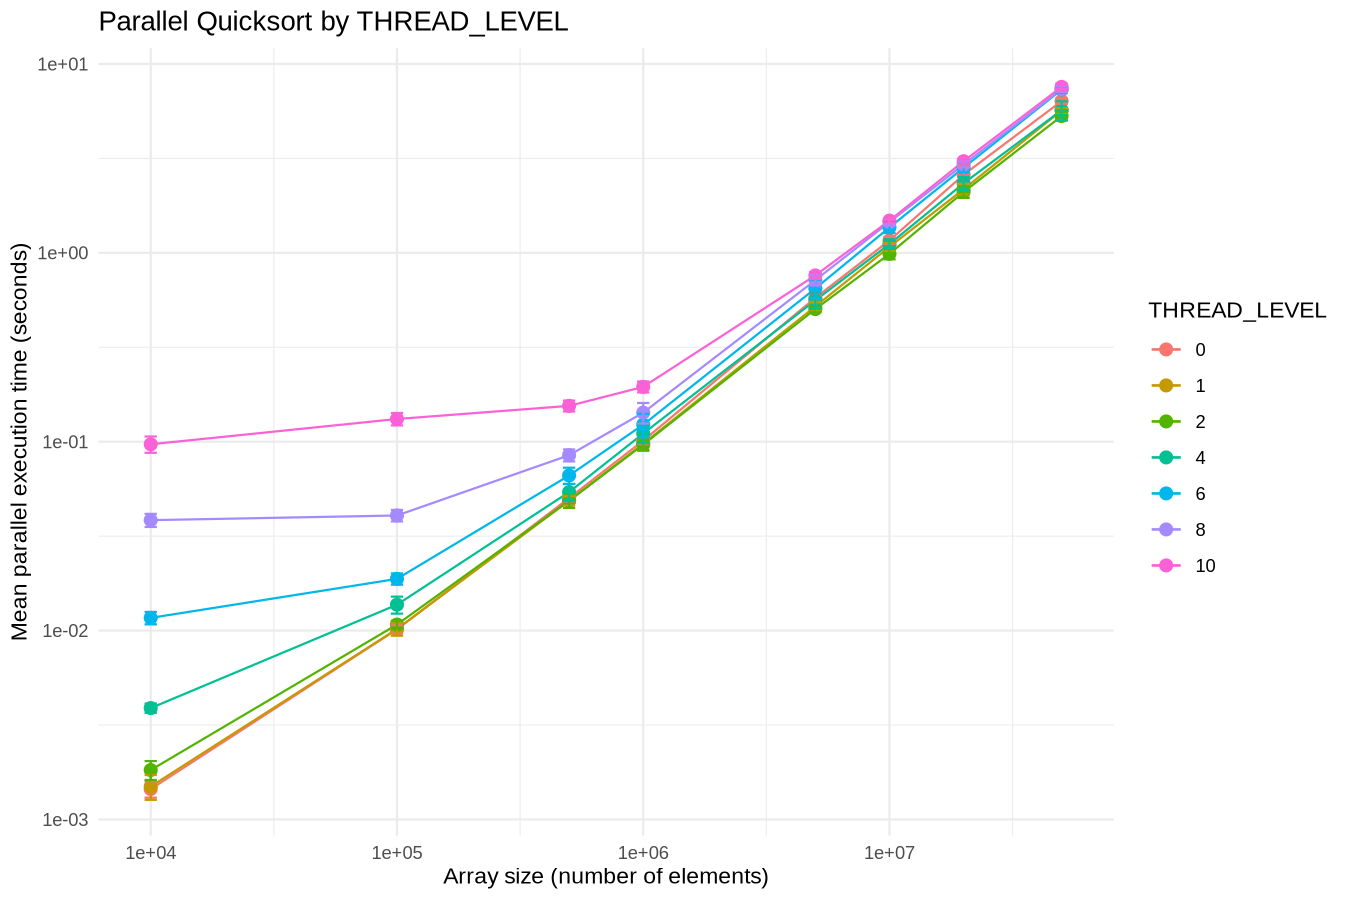
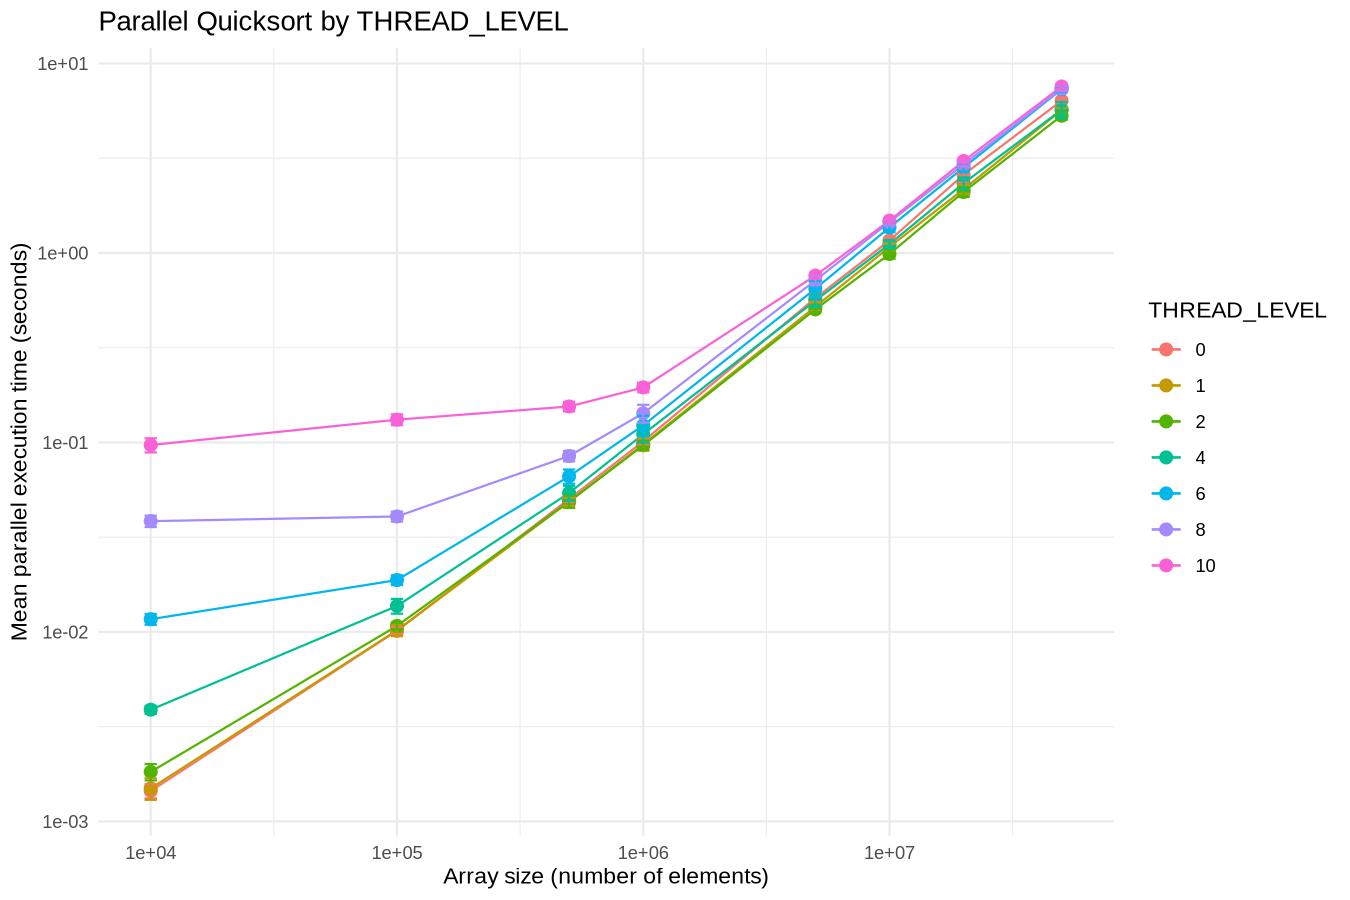
maaj

diff --git a/week3/M2R-ParallelQuicksort/README.md b/week3/M2R-ParallelQuicksort/README.md
@@ -11,6 +11,30 @@ Pour le tri parallèle, plusieurs niveaux de récursion ont été testés :
 ```text
 THREAD_LEVEL = 0, 1, 2, 4, 6, 8, 10
 ```
+### Démarche expérimentale
+
+Pour chaque taille de tableau et chaque `THREAD_LEVEL`, le benchmark est exécuté plusieurs fois. Les temps obtenus sont ensuite regroupés par configuration afin de calculer la moyenne et l'écart-type.
+
+À partir de ces répétitions, un intervalle de confiance à 95 % est calculé avec :
+
+```text
+IC 95 % = moyenne ± 1,96 × écart-type / √n
+```
+où `n` correspond au nombre de répétitions.
+
+Le coefficient 1,96 correspond au niveau de confiance de 95 %. n correspond au nombre de répétitions. ( P (-1,96 < Z < 1,96) )
+
+Details de calcul : On veut un intervalle central de 95 %
+
+soit : P (-z < Z < +z )  = 0,95 implique qu'il reste : P( Z < -z ) + P( Z > z ) = 0,05
+        1-0,95 = 0,05 => 0,05/2 = 0,025 ( car par symétrie P( Z < -z ) = P( Z > z ) )
+
+On cherche z tel que : P(Z < -z) = 0,025
+Par symétrie de la loi normale : P(Z > z) = 0,025
+Donc : P(Z < z) = 1 - 0,025 = 0,975
+Avec la table de la loi normale, on trouve : z = fct_de_repartition(0,975) ≈ 1,96
+
+Le speedup est ensuite calculé entre le temps séquentiel et le temps parallèle. Pour chaque taille de tableau, le `THREAD_LEVEL` donnant le meilleur speedup moyen est retenu. Les résultats sont enfin représentés sous forme de graphiques et de tableaux.
 
 ## 2. Fichiers ajoutés
 
@@ -21,7 +45,7 @@ THREAD_LEVEL = 0, 1, 2, 4, 6, 8, 10
 
 ### Analyse statistique
 
-- `scripts/analyse_benchmark.R`: calcule les moyennes, les écarts-types, les intervalles de confiance à 95 %, les speedups et le meilleur `THREAD_LEVEL`.
+- `scripts/analyse_benchmark.R`: calcule les moyennes, les écarts-types, les speedups et le meilleur THREAD_LEVEL.
 - `data/benchmark_*.csv` : contient les mesures brutes produites par les benchmarks.
 - `data/analysis/statistiques_thread_level.csv` : contient les statistiques calculées pour chaque taille et chaque `THREAD_LEVEL`.
 - `data/analysis/best_thread_level.csv` : contient le meilleur `THREAD_LEVEL` identifié pour chaque taille.
@@ -55,7 +79,7 @@ Le script calcule les moyennes, les écarts-types, les intervalles de confiance 
 
 *Figure 2 - Temps d'exécution du tri parallèle pour les différents niveaux de `THREAD_LEVEL`.*
 
-Les résultats montrent que le meilleur niveau dépend de la taille du tableau. Pour les petites tailles, un faible niveau de récursion est préférable. À partir de 500 000 éléments, `THREAD_LEVEL = 2` devient généralement le meilleur choix.
+Le meilleur niveau dépend de la taille du tableau. `THREAD_LEVEL = 2` donne les meilleurs résultats pour 500 000 éléments puis pour les tailles de 5 à 50 millions d'éléments.
 
 | Taille      | Meilleur `THREAD_LEVEL` | Speedup moyen |
 |:------------|:-----------------------:|--------------:|
@@ -89,20 +113,20 @@ Les meilleurs résultats obtenus pour chaque taille sont :
 
 | Taille      | `THREAD_LEVEL` | Speedup moyen | IC 95 % |
 |:------------|:--------------:|--------------:|:-------:|
-| 10 000      | 1              | 0,568         | [0,470 ; 0,666] |
-| 100 000     | 0              | 0,954         | [0,901 ; 1,008] |
-| 500 000     | 2              | 1,055         | [1,018 ; 1,091] |
-| 1 000 000   | 1              | 1,081         | [1,001 ; 1,161] |
-| 5 000 000   | 2              | 1,117         | [1,078 ; 1,156] |
-| 10 000 000  | 2              | 1,176         | [1,107 ; 1,246] |
-| 20 000 000  | 2              | 1,162         | [1,104 ; 1,219] |
-| 50 000 000  | 2              | **1,230**     | **[1,169 ; 1,292]** |
+| 10 000      | 1              | 0,568         | [0,483 ; 0,653]|
+| 100 000     | 0              | 0,954         | [0,908 ; 1,000] |
+| 500 000     | 2              | 1,055         | [1,023 ; 1,087] |
+| 1 000 000   | 1              | 1,081         | [1,011 ; 1,150] |
+| 5 000 000   | 2              | 1,117         | [1,083 ; 1,151] |
+| 10 000 000  | 2              | 1,176         | [1,116 ; 1,237] |
+| 20 000 000  | 2              | 1,162         | [1,112 ; 1,212] |
+| 50 000 000  | 2              | **1,230**     |**[1,177 ; 1,283]** |
 
 Pour 10 000 éléments, le meilleur speedup moyen est seulement de **0,568** avec `THREAD_LEVEL = 1`. Le parallélisme est donc clairement défavorable pour cette taille.
 
-À 100 000 éléments, le meilleur niveau testé est `THREAD_LEVEL = 0`, avec un speedup moyen de **0,954**. L'intervalle de confiance contient `1`, ce qui signifie qu'il n'y a pas de gain statistiquement clair par rapport au tri séquentiel.
+À 100 000 éléments, le meilleur niveau testé est `THREAD_LEVEL = 0`, avec un speedup moyen de **0,954**. L'intervalle de confiance est très proche de `1`, ce qui ne permet pas de mettre en évidence un gain clair du tri parallèle dans cette configuration.
 
-À partir de 500 000 éléments, le meilleur speedup devient supérieur à `1`. Pour 500 000 éléments, le speedup moyen atteint **1,055** avec `THREAD_LEVEL = 2`. L'intervalle de confiance `[1,018 ; 1,091]` est entièrement supérieur à `1`, ce qui indique un gain en faveur du tri parallèle dans cette configuration.
+À partir de 500 000 éléments, le meilleur speedup devient supérieur à `1`. Pour 500 000 éléments, le speedup moyen atteint **1,055** avec `THREAD_LEVEL = 2`. L'intervalle de confiance `[1,023 ; 1,087]` est entièrement supérieur à `1`, ce qui indique un gain en faveur du tri parallèle dans cette configuration.
 
 Pour 1 million d'éléments, le speedup moyen est de 1,081 avec THREAD_LEVEL = 1. Le gain reste faible : la borne inférieure de l'intervalle de confiance est seulement légèrement supérieure à 1.
 
@@ -111,7 +135,7 @@ Pour les tailles de 5 à 50 millions d'éléments, THREAD_LEVEL = 2 est le meill
 Le meilleur résultat est obtenu pour 50 millions d'éléments :
 
 - **Speedup moyen : 1,230**
-- **IC 95 % : [1,169 ; 1,292]**
+- **IC 95 % : [1,177 ; 1,283]**
 - **THREAD_LEVEL : 2**
 
 Pour 50 millions d'éléments, le speedup moyen de **1,230** correspond à une accélération d'environ **23 %** par rapport au tri séquentiel. L'intervalle de confiance est entièrement supérieur à `1`, ce qui confirme que le gain observé est compatible avec une accélération du tri parallèle dans cette configuration.
@@ -122,7 +146,7 @@ Globalement, les résultats montrent donc que le parallélisme devient réelleme
 
 Les résultats montrent que le tri parallèle n'est pas intéressant pour les petites tailles, mais qu'il devient plus efficace lorsque la taille du tableau augmente.
 
-Pour **10 000 éléments**, le tri parallèle est nettement moins performant que le tri séquentiel. Pour **100 000 éléments**, le meilleur niveau testé est `THREAD_LEVEL = 0`, correspondant au traitement séquentiel, et l'intervalle de confiance du speedup contient `1`.
+Pour **10 000 éléments**, le tri parallèle est nettement moins performant que le tri séquentiel. Pour 100 000 éléments, le meilleur niveau testé est THREAD_LEVEL = 0, avec un speedup moyen de 0,954. L'intervalle de confiance est très proche de 1, ce qui ne permet pas de mettre en évidence un gain clair du tri parallèle dans cette configuration.
 
 À partir de 500 000 éléments, le parallélisme devient avantageux. THREAD_LEVEL = 2 donne les meilleurs résultats pour les grandes tailles, avec un speedup moyen atteignant 1,230 pour 50 millions d'éléments.
 
